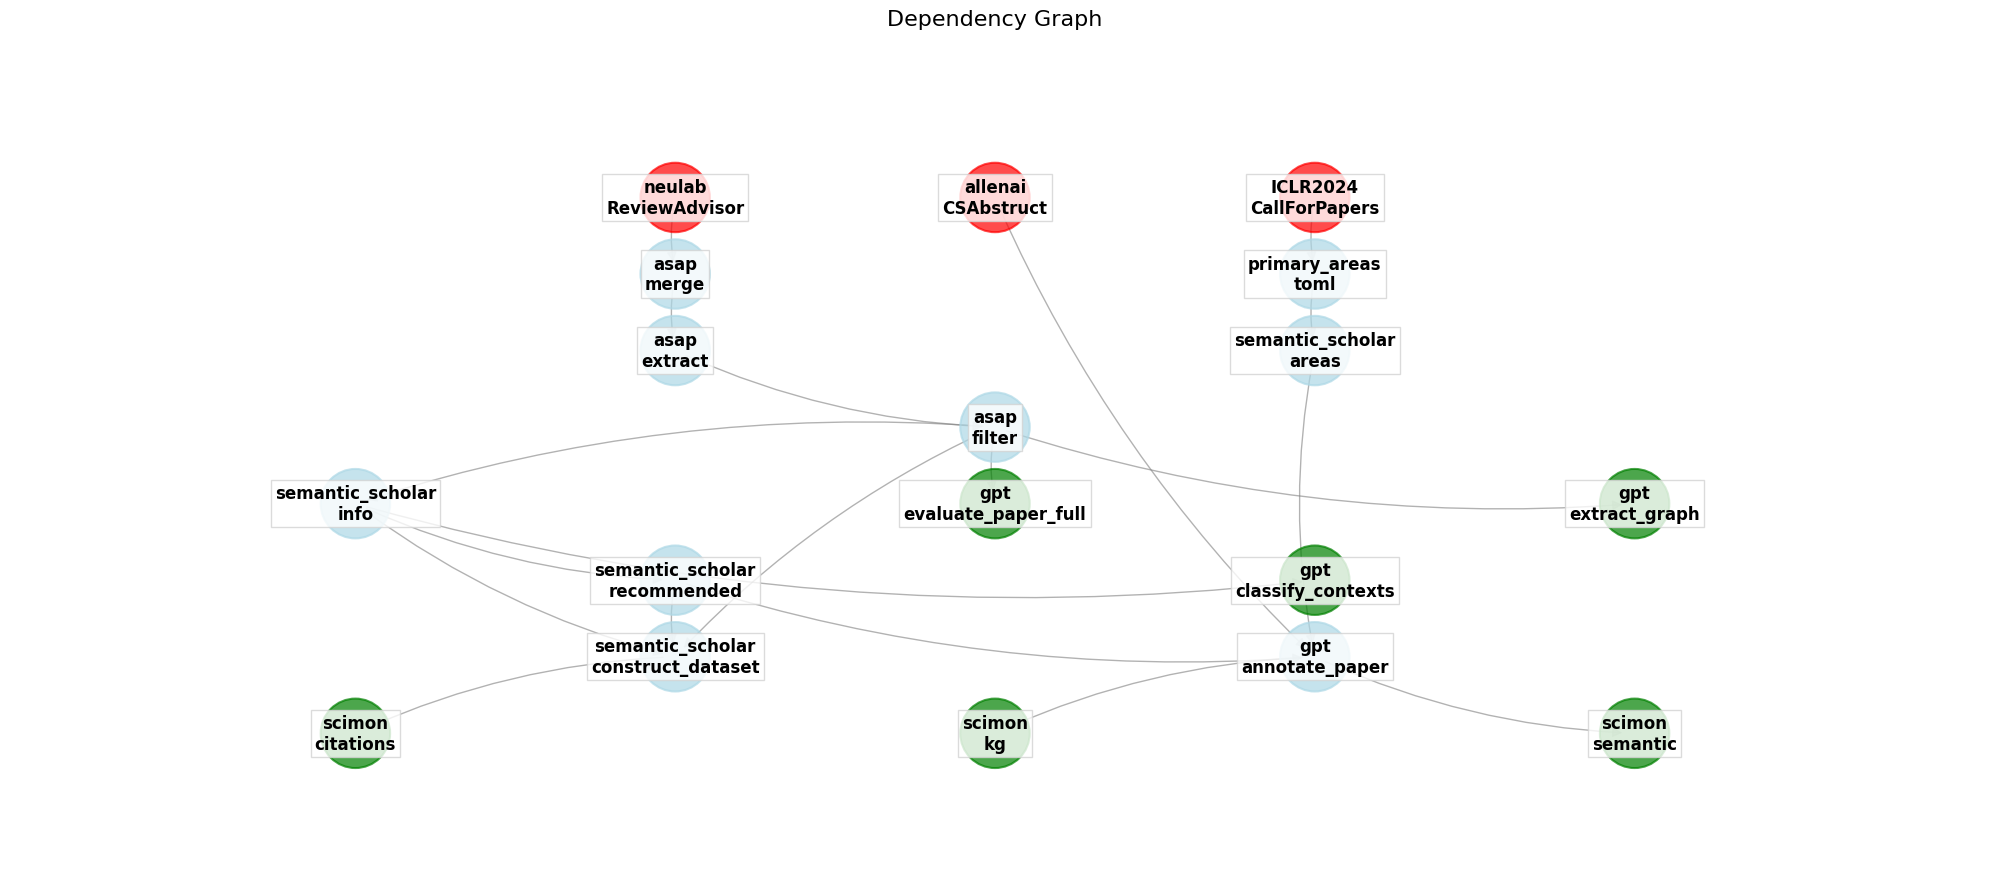
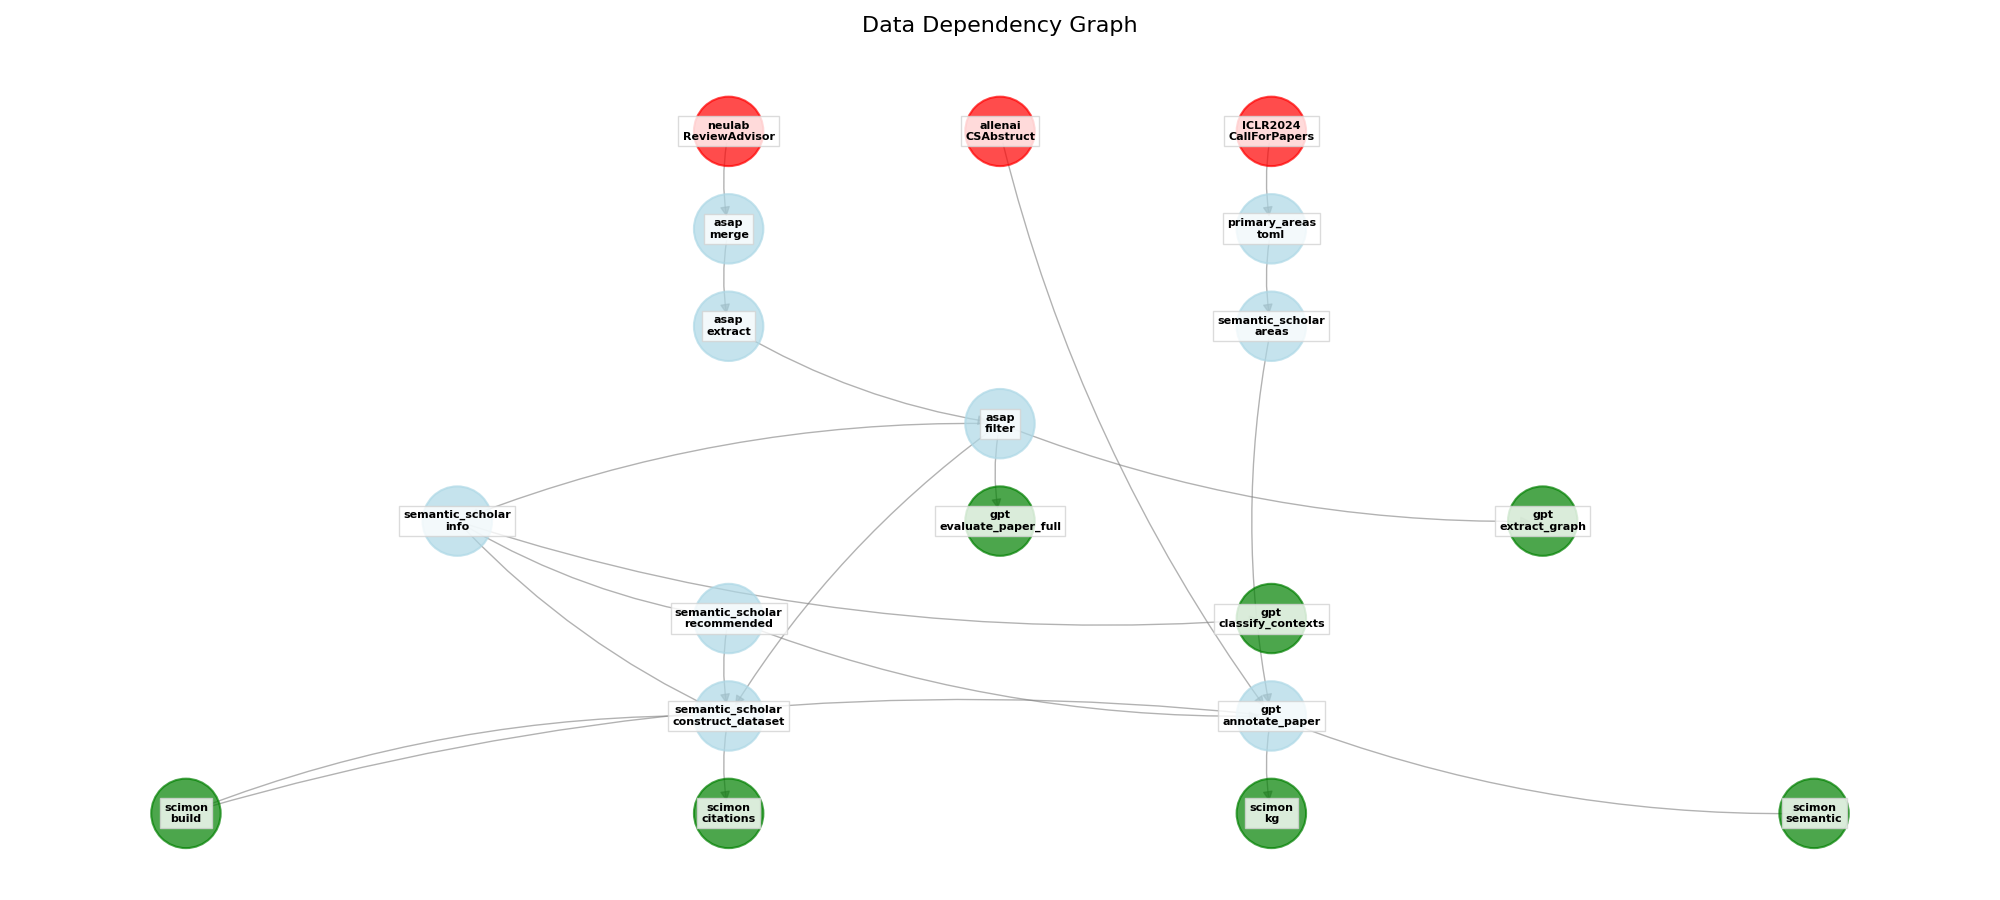
data-deps(show): Make better use of space in generated image
Everything was too big and too tight.

diff --git a/src/paper/deps/show.py b/src/paper/deps/show.py
@@ -42,8 +42,8 @@ def main(
 
     deps = [
         Dependency(
-            source=_file_to_pkg(entry["source"]),
-            target=_file_to_pkg(entry["target"]),
+            source=_file_to_module(entry["source"]),
+            target=_file_to_module(entry["target"]),
             detail=entry.get("detail"),
         )
         for entry in data
@@ -159,7 +159,7 @@ def display_graph(
     )
 
     # Determine node colors
-    node_colors = []
+    node_colors: list[str] = []
     for node in graph.nodes():
         if graph.in_degree(node) == 0:  # Root node
             node_colors.append("red")
@@ -183,30 +183,24 @@ def display_graph(
         graph,
         pos,
         labels=labels,
-        font_size=12,
+        font_size=8,
         font_weight="bold",
         font_family="sans-serif",
         bbox={"facecolor": "white", "edgecolor": "lightgray", "alpha": 0.8, "pad": 3.0},
     )
 
-    plt.title("Dependency Graph", pad=20, size=16)
-    plt.margins(x=0.2, y=0.2)
+    plt.title("Data Dependency Graph", pad=20, size=16)
     plt.axis("off")
     plt.tight_layout()
 
     if save_file:
-        plt.savefig(
-            save_file,
-            bbox_inches="tight",
-            metadata={"Creator": "", "Producer": ""},
-            facecolor="white",
-            edgecolor="none",
-        )
+        plt.savefig(save_file)
     if show:
         plt.show()
 
 
-def _file_to_pkg(file: str) -> str:
+def _file_to_module(file: str) -> str:
+    """Convert path to script to its module name."""
     return file.removeprefix("./").removesuffix(".py").replace("/", ".")
 
 
